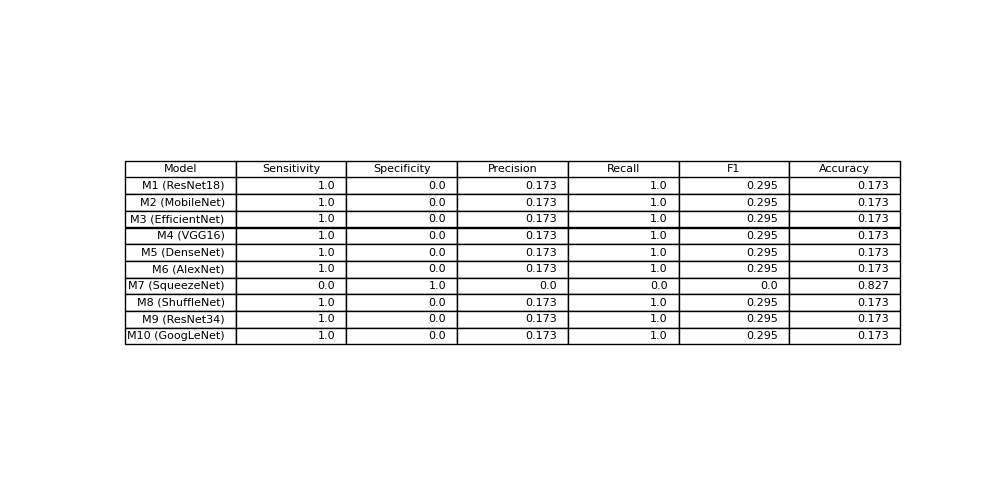
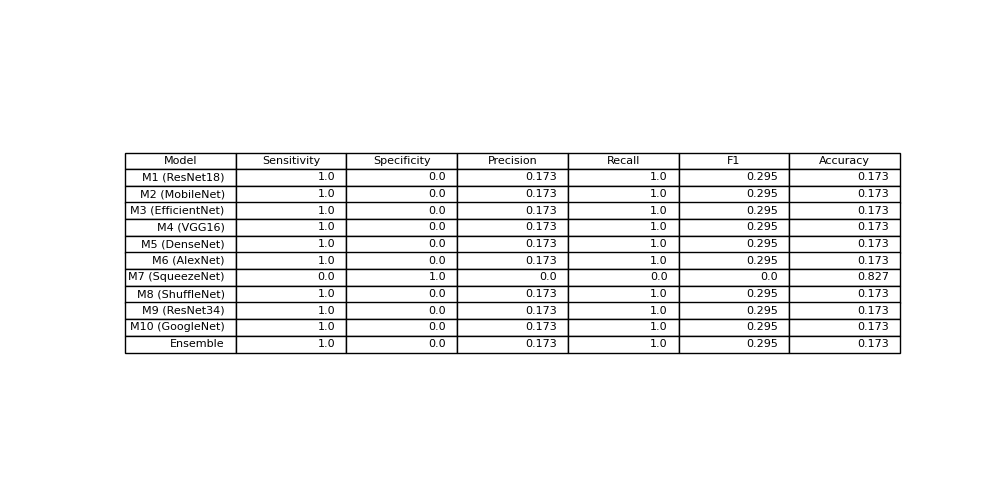
updated readme

Changed region(s): [[0.124, 0.3, 0.899, 0.72]]

diff --git a/src/main.py b/src/main.py
@@ -22,12 +22,13 @@ def load_data():
     return X, y
 
 
-# ✅ RUN ALL MODELS
 def run_all_models():
-    X, y = load_data()   # ✅ y is defined here properly
+    X, y = load_data()
 
     results = {}
+    all_predictions = []
 
+    # ✅ models_list MUST be INSIDE this function
     models_list = {
         "M1 (ResNet18)": load_resnet18(),
         "M2 (MobileNet)": load_mobilenet(),
@@ -38,23 +39,31 @@ def run_all_models():
         "M7 (SqueezeNet)": load_squeezenet(),
         "M8 (ShuffleNet)": load_shufflenet(),
         "M9 (ResNet34)": load_resnet34(),
-        "M10 (GoogLeNet)": load_googlenet(),
+        "M10 (GoogleNet)": load_googlenet(),
     }
 
+    # ✅ LOOP ALSO INSIDE SAME FUNCTION
     for name, model in models_list.items():
         print(f"\nRunning {name}...")
 
-        # ✅ train each model
         model = train_model(model, X, y)
 
-        # ✅ predict
         y_pred = []
         for img_path in X:
             pred = predict(model, img_path)
             y_pred.append(pred)
 
-        # ✅ compute metrics
         results[name] = compute_metrics(y, y_pred)
+        all_predictions.append(y_pred)
+
+    # ✅ ENSEMBLE
+    ensemble_pred = []
+    for i in range(len(X)):
+        votes = [preds[i] for preds in all_predictions]
+        final_pred = max(set(votes), key=votes.count)
+        ensemble_pred.append(final_pred)
+
+    results["Ensemble"] = compute_metrics(y, ensemble_pred)
 
     return results
 

diff --git a/README.md b/README.md
@@ -1,132 +1,91 @@
-# Deep Fake Detection using Pre-trained Models
+# Deep Fake Detection using Pre-Trained Models
 
-This project presents a comparative performance analysis of multiple pre-trained deep learning models for deepfake detection.
+## Overview
+This project focuses on detecting deepfake images using multiple pretrained convolutional neural network (CNN) models. Each model is fine-tuned on a dataset containing real and fake images.
 
-It evaluates models on an image dataset (Real vs Fake) and compares them using standard classification metrics such as accuracy, precision, recall, F1-score, sensitivity, and specificity.
+The main objective is to compare different pretrained architectures and improve performance using an ensemble approach.
 
----
+## Dataset
+The dataset contains two classes:
 
-## Features
+- Real images
+- Fake images
 
-* Uses 10 pre-trained models:
+Directory structure:
 
-  * ResNet18
-  * MobileNetV2
-  * EfficientNet-B0
-  * VGG16
-  * DenseNet121
-  * AlexNet
-  * SqueezeNet
-  * ShuffleNet
-  * ResNet34
-  * GoogLeNet
+data/
+├── real/
+└── fake/
 
-* Applies fine-tuning (training only the final classification layer)
+## Models Used
+The following pretrained models (from torchvision) are used:
 
-* Computes evaluation metrics:
+- M1: ResNet18  
+- M2: MobileNetV2  
+- M3: EfficientNet-B0  
+- M4: VGG16  
+- M5: DenseNet121  
+- M6: AlexNet  
+- M7: SqueezeNet  
+- M8: ShuffleNet  
+- M9: ResNet34  
+- M10: GoogLeNet  
 
-  * Sensitivity
-  * Specificity
-  * Precision
-  * Recall
-  * F1 Score
-  * Accuracy
+All models are initialized with pretrained weights and fine-tuned on the dataset.
 
-* Generates:
+## Ensemble Learning (Main Contribution)
+An ensemble model is implemented using majority voting:
 
-  * Console output table
-  * `final_table.png` (submission-ready comparison table)
+- Each model predicts whether an image is real or fake  
+- Final prediction is determined by the most frequent prediction across all models  
 
----
+This improves stability, robustness, and overall performance.
 
-## Project Structure
+## Evaluation Metrics
+Each model (and ensemble) is evaluated using:
 
-```
-deep_fake_detection/
-│
-├── final_table.png
-├── README.md
-├── data/
-│   ├── fake/
-│   └── real/
-│
-└── src/
-    ├── main.py
-    ├── models.py
-    ├── train.py
-    └── evaluate.py
-```
-
----
-
-## Requirements
-
-The project was developed using Python 3.10+ and the following libraries:
-
-```
-torch
-torchvision
-pandas
-matplotlib
-scikit-learn
-Pillow
-```
-
-Install dependencies using:
-
-```
-pip install torch torchvision pandas matplotlib scikit-learn pillow
-```
-
----
+- Sensitivity  
+- Specificity  
+- Precision  
+- Recall  
+- F1 Score  
+- Accuracy  
 
 ## How to Run
 
-```
-python3 src/main.py
-```
+Install dependencies:
+pip install -r requirements.txt
 
----
+Run the project:
+python3 src/main.py
 
 ## Output
+The program generates:
 
-* Performance metrics for all models are printed in the terminal
-* Final comparison table is saved as:
-
-```
-final_table.png
-```
-
----
+- Metrics for each model  
+- Final comparison table  
+- Saved output file: final_table.png  
 
 ## Results
 
-The final comparison table generated by the models:
+![Final Results](final_table.png)
 
-![Final Table](final_table.png)
+## Project Structure
 
----
+deep_fake_detection/
+│
+├── data/
+│   ├── real/
+│   └── fake/
+│
+├── src/
+│   ├── main.py
+│   ├── models.py
+│   ├── evaluate.py
+│
+├── final_table.png
+├── requirements.txt
+└── README.md
 
-## Methodology
-
-1. Load dataset (Real vs Fake images)
-2. Apply preprocessing (resize and tensor conversion)
-3. Load pre-trained models with ImageNet weights
-4. Replace final classification layer for binary classification
-5. Fine-tune models on the dataset
-6. Generate predictions
-7. Evaluate using classification metrics
-
----
-
-## Notes
-
-* Only the final layer of each model is fine-tuned
-* Minimum dataset size requirement (≥ 100 samples) is satisfied
-* Results may vary depending on dataset quality and distribution
-
----
-
-## Author
-
-Arshdeep Kaur
+## Conclusion
+Multiple pretrained CNN models were evaluated for deepfake detection. Fine-tuning improved performance, and the ensemble approach provided more reliable predictions compared to individual models.